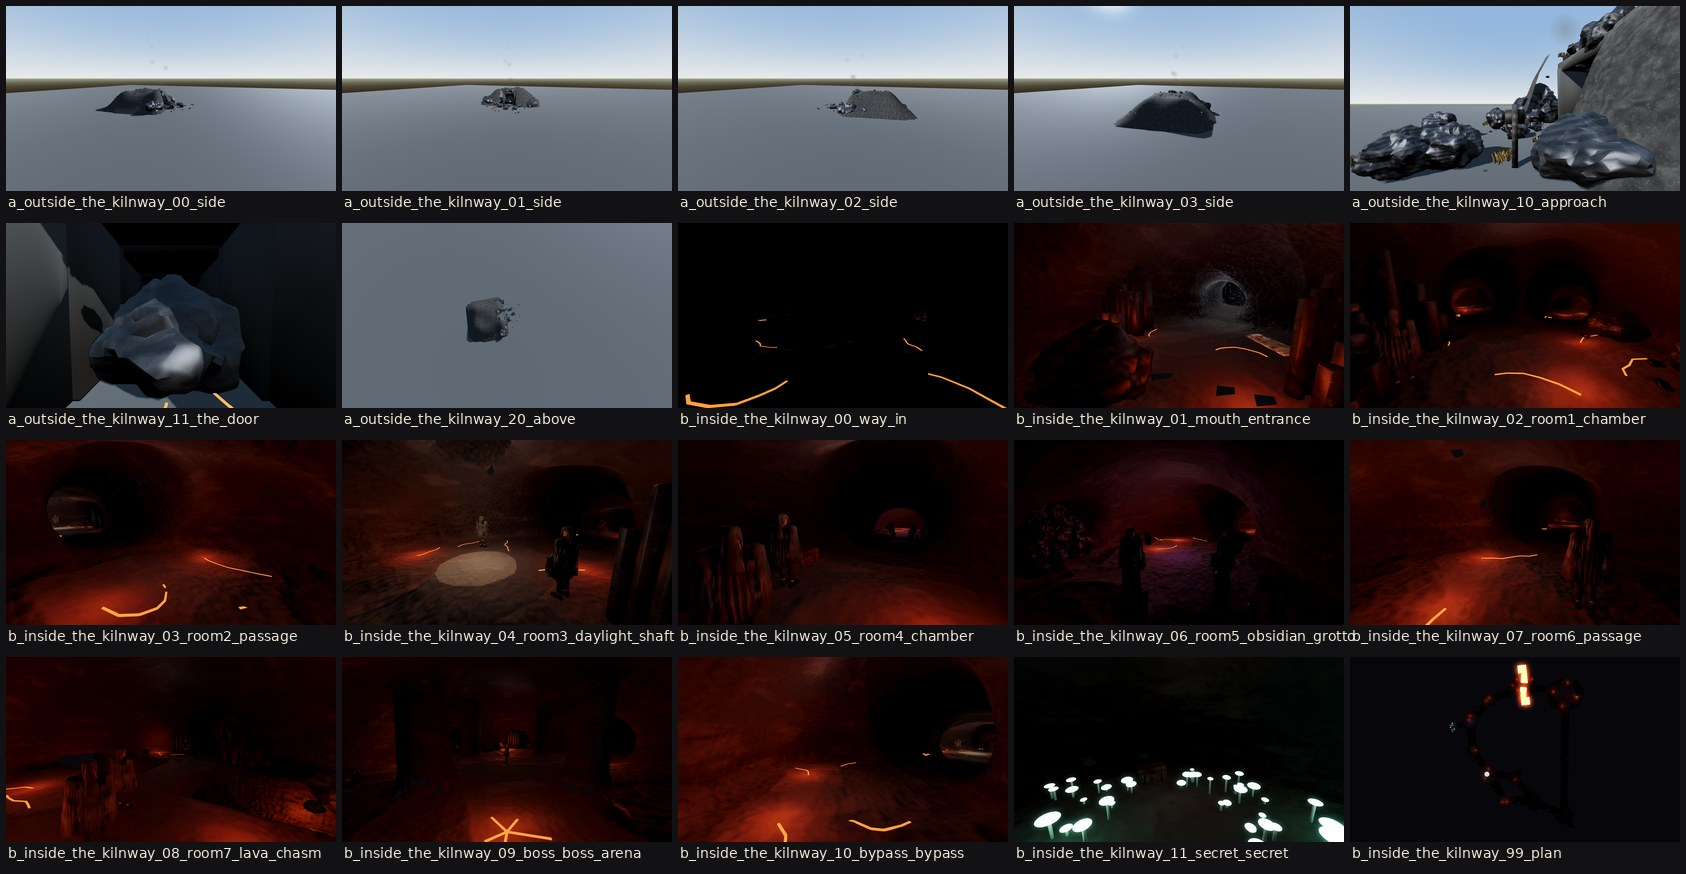
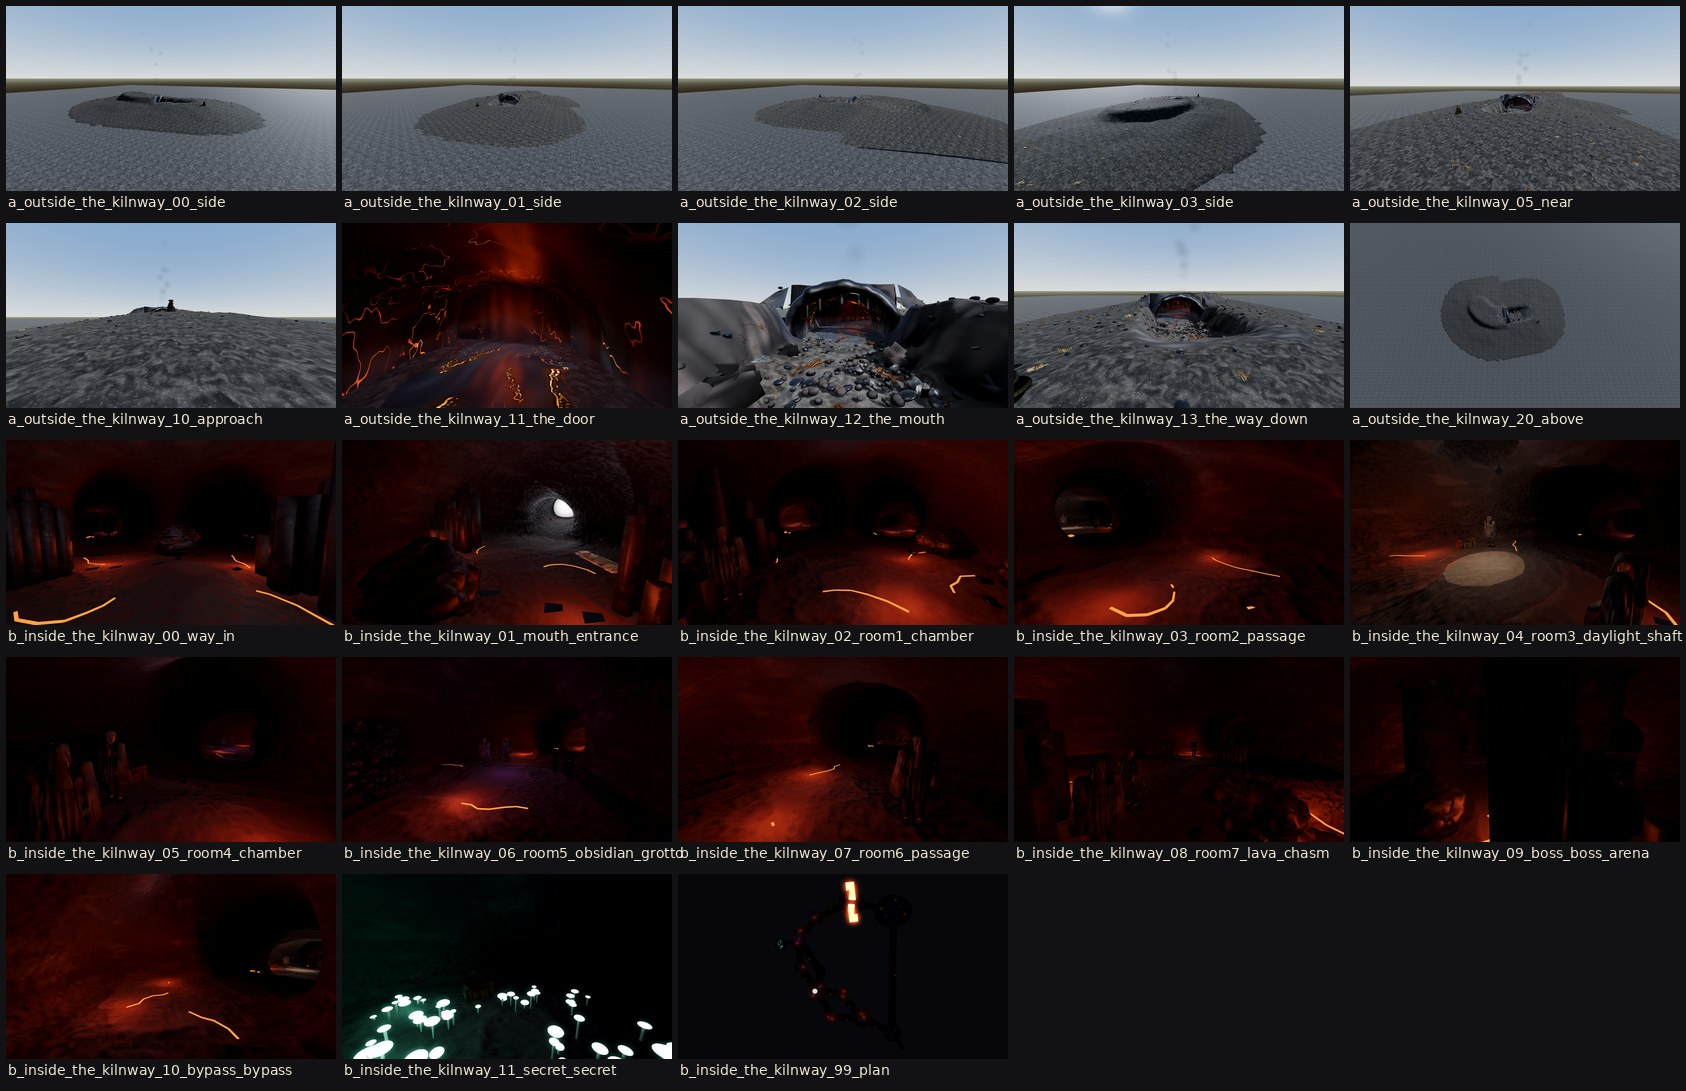
The large sites finished: weathered forts, a lava tube's mouth cut into the heath, drops in most places, every room walkable, the dead remembered
Scathe Fort's outside in the region's stone weathered by site_stone.gdshader (grime from the real
ground, streaks, moss, lichen) with plinths, string courses, buttresses, broken and fallen merlons,
a gatehouse, a dressed keep and a lived-in yard; the Kilnway's mouth a trench cut into a low rise of
the heath with a glass lip, a bending throat lit by its own ember cracks, cinders and shards; the
first view in lit (only the 24 nearest lights on, a day spill); drops looked for on their own (44 of
96 plans); SiteFallen keeps the dead dead until a rest; the ledge crash, reachability (noise caps, a
repair pass, passage navigation links; every kind walked at three seeds), yard stores apart, cheap
stakes; pads for both showcases; before/after and world sheets.

Claude-Session: https://claude.ai/code/session_01A6PPphQHEwh4jQrJtEMbFk

diff --git a/PROGRESS.md b/PROGRESS.md
@@ -12924,12 +12924,26 @@ sites get all of it (Skerrow's Old Ghastow uses the fort outside).
 ### Measured
 - Drops: 5 of 96 plans before, 44 of 96 after (the plan test's 8 kinds x 6 seeds x 2 sizes).
 - Kilnway way in: eye 1.9 m over the floor, roof 1.9 m over it, 43 lights in the site, 24 on.
+- On real ground (Compatibility, 1280x720): Scathe Fort 1.13-1.53 M primitives a view (the gate
+  side at 34 m is 1.53 M, just over the 1.5 M budget), the Kilnway 1.78-2.02 M (the heath's own
+  scatter and horizon are most of that; the site's rise is one mesh).
 
 ### Tests
-TESTS_LINE
+`./run.sh test --filter=test_sites,test_pois,test_poi_kinds,test_interiors,test_content_db`: 80 tests,
+0 failed (the one logged error is test_interiors' deliberate unknown interior), no growth in the
+GDScript warnings. test_sites is 11 tests, 4 of them new: every kind at 3 seeds built and walked
+to every room (24 of 24; the old check would have called 11 of them unwalkable), a written site
+with a ledge built and reached at 5 seeds, the fallen staying dead in the fort and the undercroft
+until a rest, the lava mouth open from its trench to the door round the bend; the plan test now
+asks for drops in 30% of plans (44 of 96), the fort test for weathered stone carrying the ground's
+height and its gatehouse, keep, fallen merlons, pentice and trodden yard. A paced build's longest
+piece: 9-34 ms (the plan's making; 222 ms before the drop search was bounded).
 
 Sheets (before/after): `docs/review/sites/scathe_fort_sheet_before.jpg`, `scathe_fort_sheet.jpg`,
-`the_kilnway_sheet_before.jpg`, `the_kilnway_sheet.jpg`, WORLD_LINE
+`the_kilnway_sheet_before.jpg`, `the_kilnway_sheet.jpg`, and the two on real ground at their sites
+(`sites_world_sheet.jpg`, `tools/capture/plans/sites_showcase.json` with both previewed on their
+pads): Scathe's yard clear of the build's trees, the fort on the down; the Kilnway's rise going
+into the heath with no edge by day.
 
 ### Not done / for the coordinator
 - The Kilnway's trench is cut into a rise laid over the ground, since the land cannot be dug at
@@ -12952,4 +12966,10 @@ Sheets (before/after): `docs/review/sites/scathe_fort_sheet_before.jpg`, `scathe
   keep 811 and 1044) have a seam where a sloped passage meets a room: the cause in the bake (cell
   height against the ramp's steps?) is not found; the links cover it for foes, and the player is not
   held to the mesh.
-- The stockade's primitive count was not re-measured with `poi_sheet.py` (no run to spare).
+- The stockade's primitive count was not re-measured with `poi_sheet.py` (no run to spare); Scathe's
+  gate-side view is 1.53 M, just over budget: the next look is the shadow casters (every merlon
+  and prop casts in each split) and the yard's props.
+- The Kilnway on real ground: the capture's bearings do not face its trench, so the mouth is seen
+  only on the flat pad; in evening light its rise's soil reads a shade lighter than the burnt heath
+  round it (the terrain's colour map, which the rise's soil does not have). On the flat pad the
+  rise's far edge shows as a faint line.
